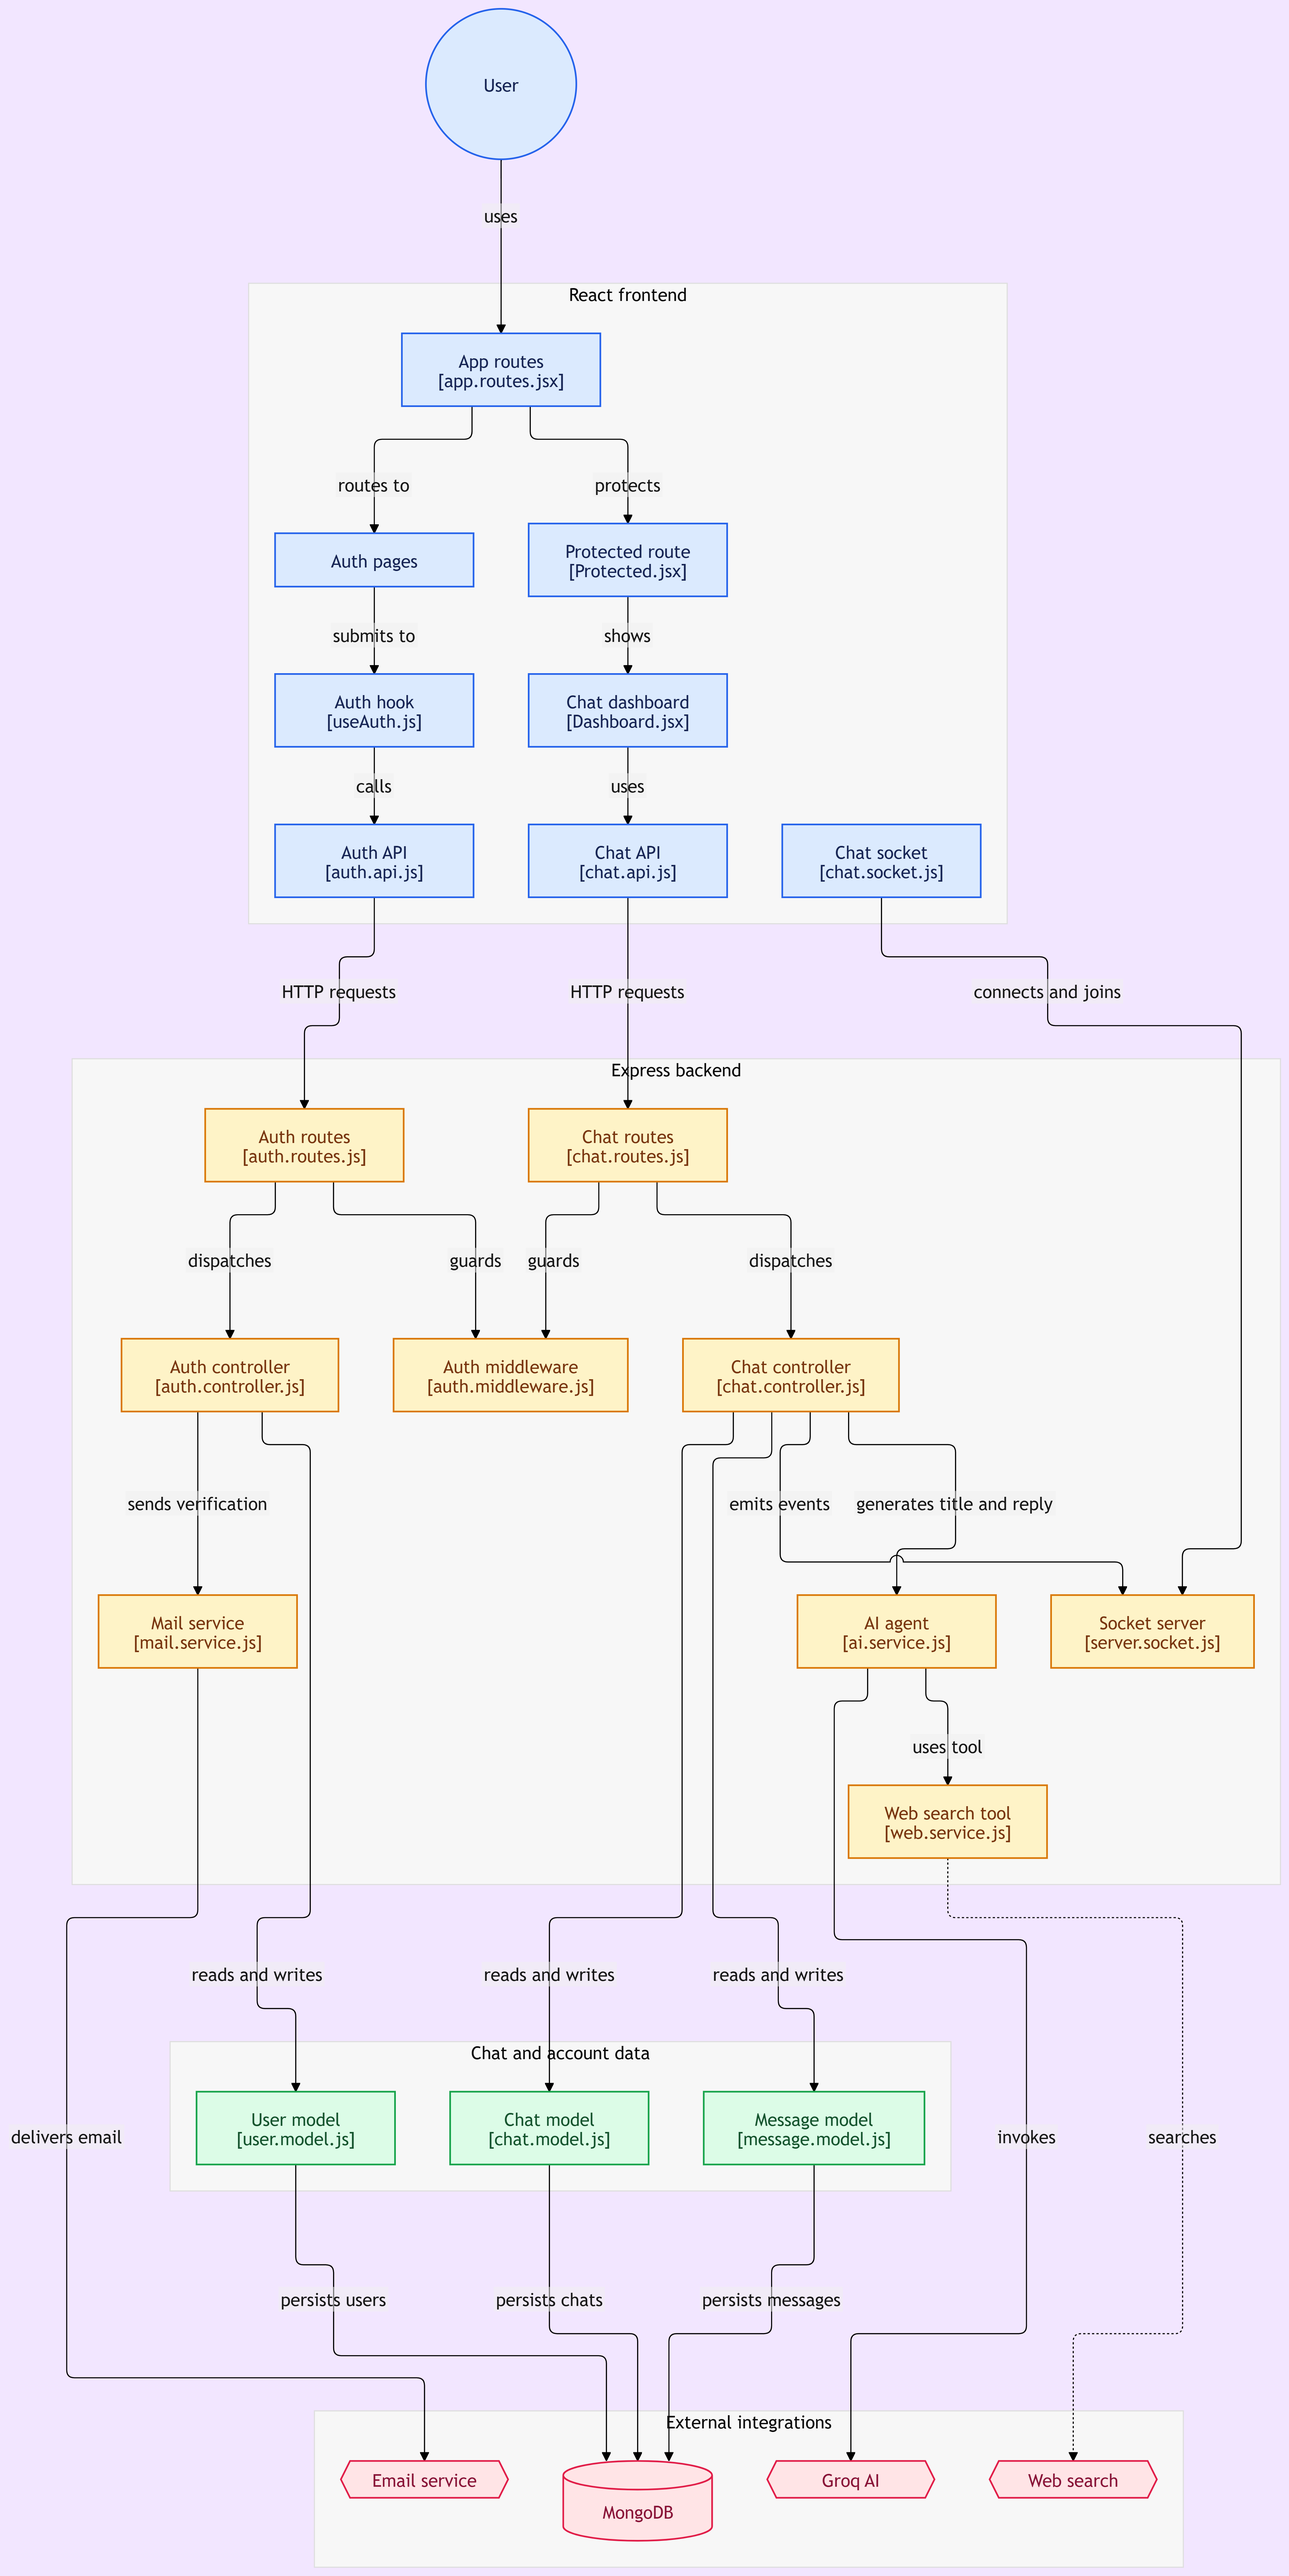
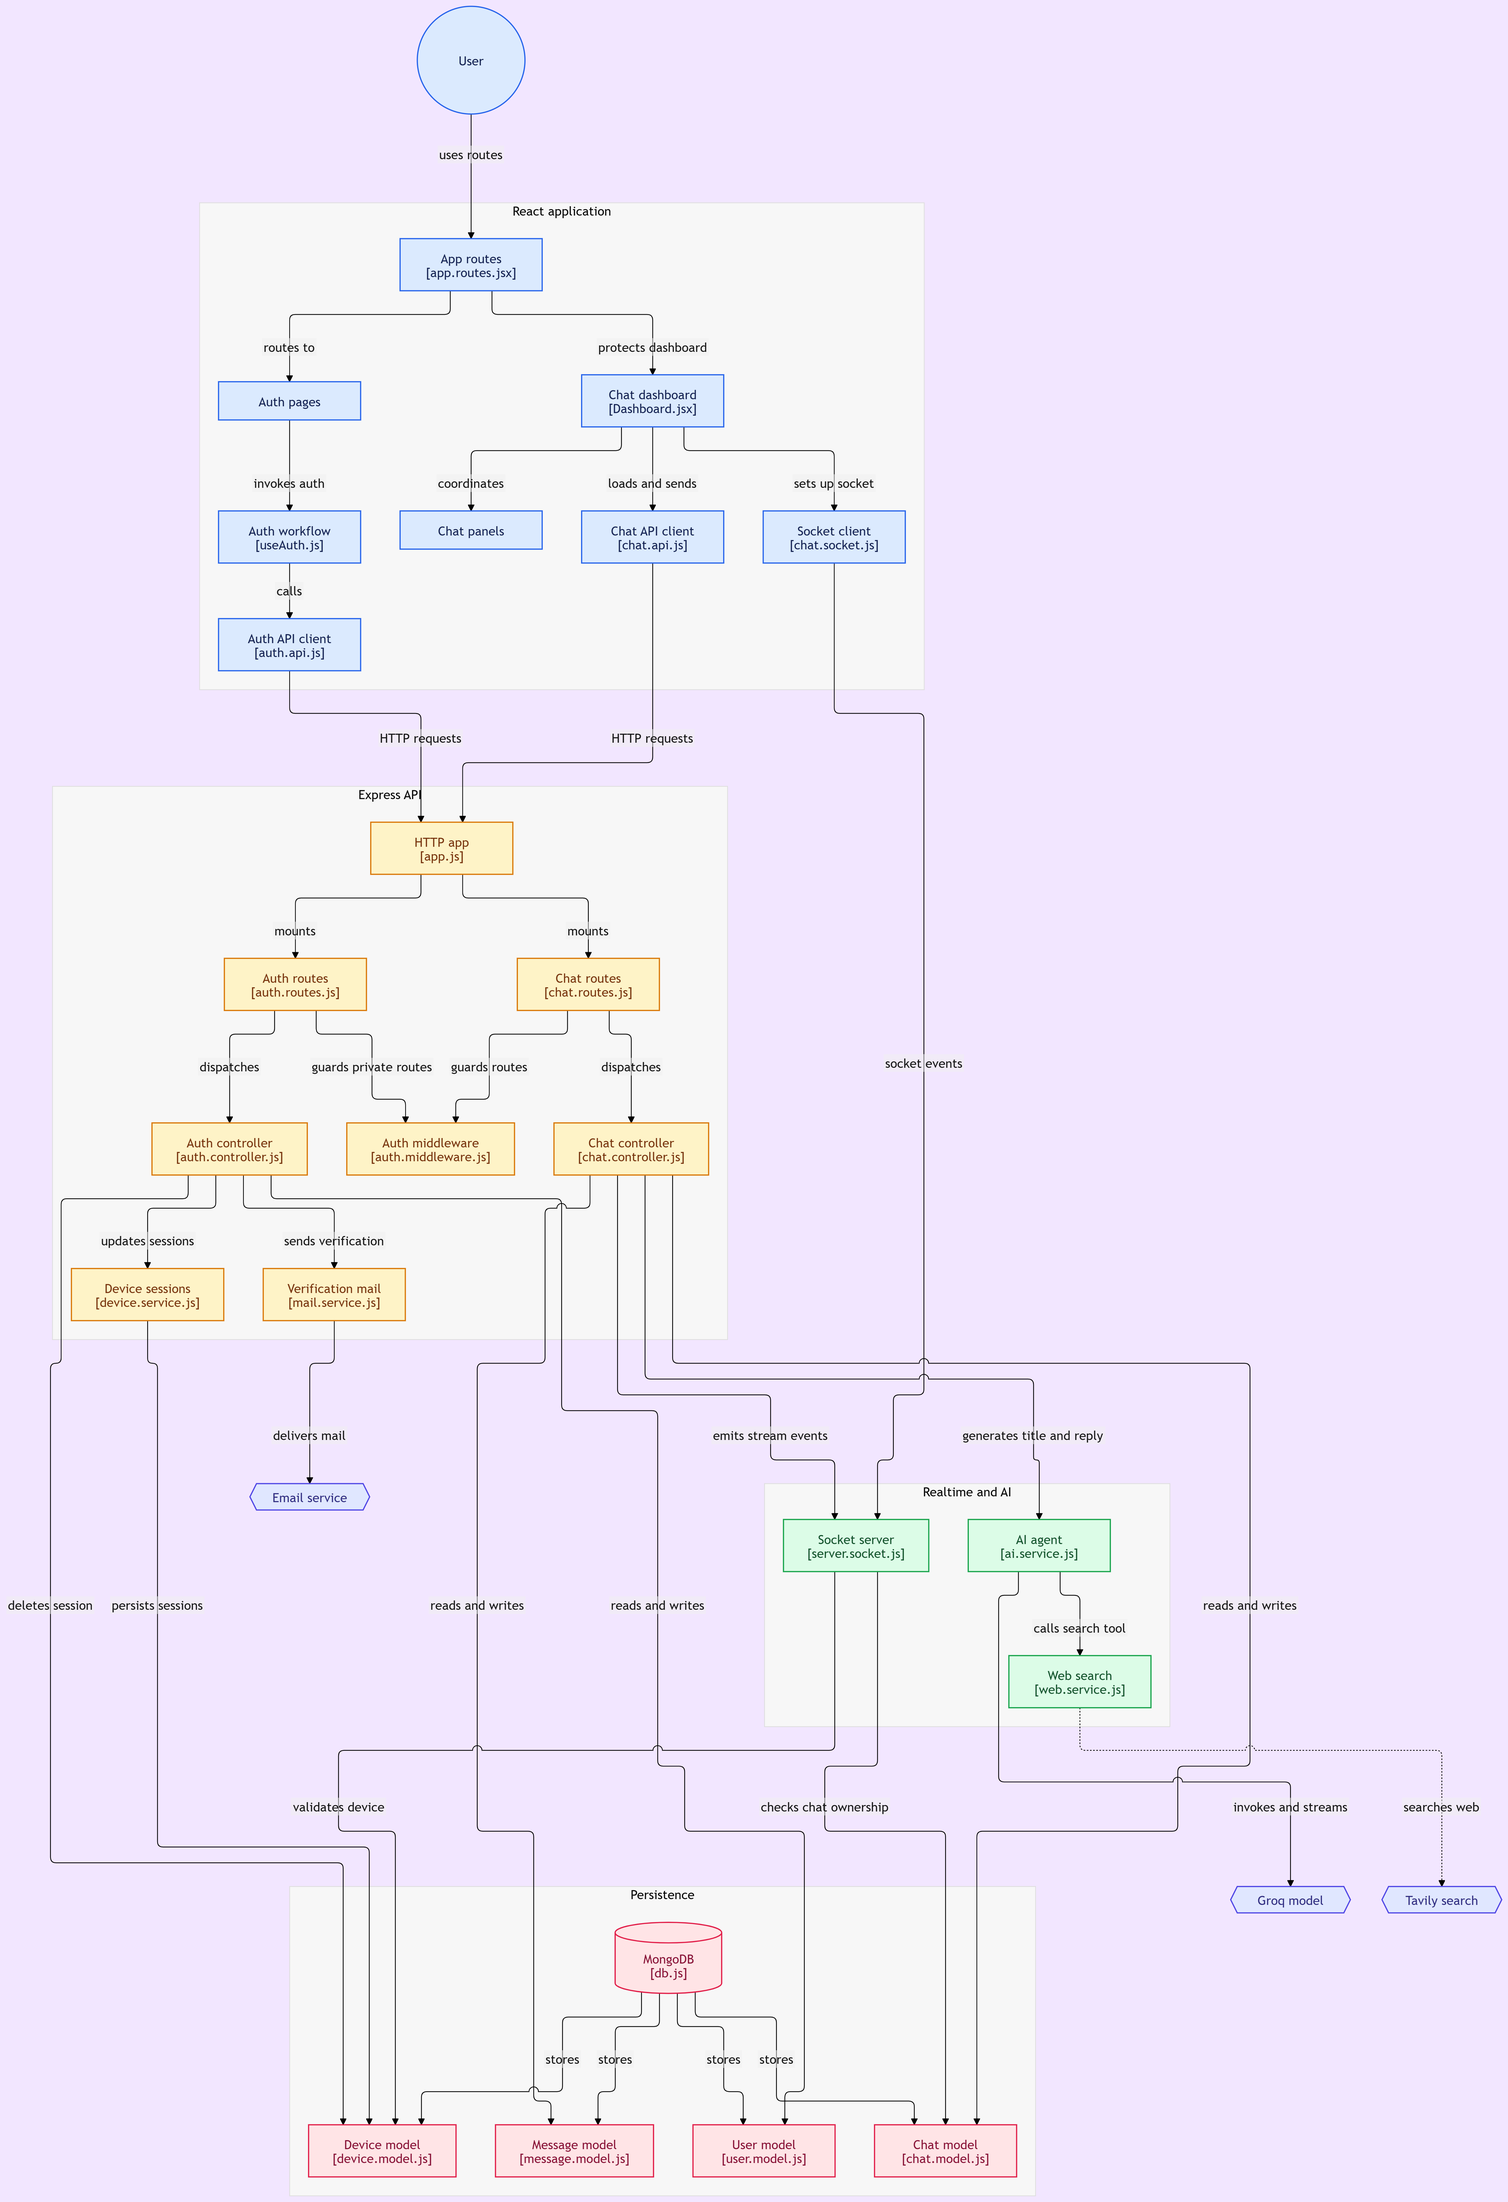
feat: update diagram to reflect recent architecture changes and document also

diff --git a/README.md b/README.md
@@ -1,24 +1,63 @@
 # SnapSeek
 
-SnapSeek is a chat app with a React frontend and an Express backend. It includes user authentication, protected chats, real-time messaging, MongoDB storage, and AI integrations.
+SnapSeek is an AI chat workspace. Users can create an account, verify their email, sign in from a PC or mobile device, create conversations, and receive streamed AI responses with Markdown rendering. Conversations and messages are stored in MongoDB.
 
-## Dashboard Features
+This repository contains two independently runnable applications:
 
-- Responsive chat dashboard with separate sidebar and conversation panel components.
-- Collapsible sidebar with vertical SnapSeek branding in its compact state.
-- Recent chat selection and new conversation controls.
-- Account menu with workspace details and logout action.
-- Markdown and GitHub Flavored Markdown rendering for assistant messages.
+- `BACKEND` - Node.js, Express, MongoDB/Mongoose, JWT cookie authentication, Socket.IO, LangChain, and email delivery.
+- `FRONTEND` - React 19, Vite, Redux Toolkit, React Router, Tailwind CSS, Socket.IO Client, and React Toastify.
+
+## Current State
+
+Implemented today:
+
+- Registration with username, email, password validation, and email verification.
+- Login and logout using an HTTP-only JWT cookie.
+- Device-aware sessions with one PC session and one mobile session per user. A new login replaces the existing session of the same device type.
+- Protected routes and API endpoints.
+- Chat creation, chat listing, message history, and chat deletion endpoints.
+- Streaming assistant responses over Socket.IO.
+- Groq is the active chat and title-generation model through LangChain.
+- Tavily web search is available to the AI agent as a tool.
+- Assistant responses render Markdown and GitHub Flavored Markdown.
+- Responsive dashboard with a collapsible sidebar, recent chats, new-chat action, account menu, and logout.
+- Toast notifications for login and registration failures.
+- Health endpoint at `/health`.
+- Transactional verification email through Brevo's HTTPS API, avoiding outbound SMTP port restrictions on hosts such as Render.
+
+The project is functional but still in active development. It has no automated test suite yet.
+
+## Architecture
+
+```text
+SnapSeek/
+├── BACKEND/
+│   ├── config/          MongoDB connection
+│   ├── controller/      Authentication and chat request handlers
+│   ├── middleware/      Authentication and rate limiting
+│   ├── model/           User, device, chat, and message schemas
+│   ├── routes/          Auth and chat API routes
+│   ├── services/        AI, email, device, and web-search integrations
+│   ├── socket/          Socket.IO server and authenticated chat rooms
+│   └── server.js        HTTP server entry point
+└── FRONTEND/
+	└── src/
+		├── app/         Router, Redux store, and global styles
+		├── features/
+		│   ├── auth/    Auth state, API calls, pages, and route guard
+		│   └── chat/    Chat state, API calls, socket, pages, and UI
+		└── utils/       Axios client and device ID helper
+```
 
 ## Requirements
 
-- Node.js 18 or newer
-- MongoDB
-- API keys for the services you want to use
+- Node.js 20 or newer is recommended. Several current LangChain packages require Node 20.
+- MongoDB, local or hosted.
+- API credentials for the AI, web search, and email services.
 
-## Setup
+## Installation
 
-Install dependencies in both folders:
+Install each application separately:
 
 ```bash
 cd BACKEND
@@ -28,33 +67,39 @@ cd ../FRONTEND
 npm install
 ```
 
-Create `BACKEND/.env` and add the values needed by the backend:
+## Environment Variables
+
+Create `BACKEND/.env`:
 
 ```env
 PORT=3000
 MONGO_URI=your_mongodb_connection_string
 JWT_SECRET=your_jwt_secret
+
 FRONTEND_URL=http://localhost:5173
-CORS_ORIGIN=http://localhost:5173
+
+GROQ_API_KEY=your_groq_key
 GEMINI_API_KEY=your_gemini_key
 MISTRAL_API_KEY=your_mistral_key
-GROQ_API_KEY=your_groq_key
 TAVILY_API_KEY=your_tavily_key
-EMAIL_USER=your_email_address
-GOOGLE_APP_PASSWORD=your_google_app_password
+
+BREVO_API_KEY=your_brevo_api_key
+EMAIL_USER=your_verified_brevo_sender_email
 ```
 
-Create `FRONTEND/.env` for the frontend API endpoint:
+`GROQ_API_KEY` and `TAVILY_API_KEY` are required by the active AI and web-search services. Gemini and Mistral clients are also initialized by the current AI service and should be configured if those providers are used.
+
+Create `FRONTEND/.env`:
 
 ```env
 VITE_API_BASE_URL=http://localhost:3000
 ```
 
-Use the deployed frontend and backend URLs for `FRONTEND_URL`, `CORS_ORIGIN`, and `VITE_API_BASE_URL` in production. Do not commit `.env` files or API keys.
+Do not commit `.env` files, API keys, JWT secrets, or database credentials.
 
-## Run the App
+## Local Development
 
-Open two terminals.
+Run the backend and frontend in separate terminals:
 
 Backend:
 
@@ -70,24 +115,86 @@ cd FRONTEND
 npm run dev
 ```
 
-The frontend runs at `http://localhost:5173` and the backend runs at `http://localhost:3000`.
+Default local URLs:
 
-## Main Routes
+- Frontend: `http://localhost:5173`
+- Backend: `http://localhost:3000`
+- Health check: `http://localhost:3000/health`
 
-- `/login` - Login
-- `/register` - Create an account
-- `/` - Protected chat dashboard
-- `/logout` - Protected logout flow
+## HTTP API
 
-The main dashboard UI is organized under `FRONTEND/src/features/chat`:
+### Authentication
 
-- `components/Sidebar.jsx` - Chat navigation, collapse control, and account menu.
-- `components/ConversationPanel.jsx` - Active conversation, messages, and composer.
-- `pages/Dashboard.jsx` - Chat state, socket setup, and coordination between components.
+| Method | Path | Access | Purpose |
+| --- | --- | --- | --- |
+| `POST` | `/api/auth/register` | Public | Create an account and send a verification email |
+| `POST` | `/api/auth/login` | Public | Sign in and create a device session |
+| `GET` | `/api/auth/get-me` | Authenticated | Fetch the current user |
+| `POST` | `/api/auth/verify-email` | Public | Verify an email token and create a session |
+| `POST` | `/api/auth/logout` | Authenticated | Delete the device session and clear the cookie |
 
-Frontend checks:
+Authentication endpoints are rate limited to 10 requests per IP in 15 minutes.
+
+### Chats
+
+| Method | Path | Access | Purpose |
+| --- | --- | --- | --- |
+| `POST` | `/api/chats/` | Authenticated | List the current user's chats |
+| `POST` | `/api/chats/message` | Authenticated | Create a message and start AI generation |
+| `GET` | `/api/chats/:chatId/messeges` | Authenticated | Fetch messages for a chat |
+| `DELETE` | `/api/chats/:chatId/delete` | Authenticated | Delete a chat and its messages |
+
+The `messeges` spelling is part of the current route contract and should be corrected only together with its frontend API caller.
+
+Chat requests are limited to 100 requests per user in 15 minutes.
+
+## Authentication and Realtime Flow
+
+1. The frontend creates and stores a persistent device ID in `localStorage`.
+2. Login sends the device ID to the backend.
+3. The backend stores a device session and signs a JWT containing the user, device type, and device ID.
+4. The JWT is sent as an HTTP-only, secure, `SameSite=None` cookie.
+5. Protected REST routes validate both the JWT and the matching device record.
+6. Socket.IO reads the same cookie and only permits authenticated users to join their own chat rooms.
+7. A message request returns an acknowledgement, then AI tokens and completion events are emitted to the chat room.
+
+## Deployment
+
+The backend can run as a Render web service using:
+
+```bash
+npm start
+```
+
+The frontend can be deployed as a Vite static site, including Vercel. The frontend deployment must define:
+
+```env
+VITE_API_BASE_URL=https://your-backend.example.com
+```
+
+The backend must define `FRONTEND_URL` as the exact deployed frontend origin so CORS and Socket.IO credentials work. Because the JWT cookie is secure and cross-site, production must use HTTPS on both frontend and backend.
+
+The frontend `vercel.json` rewrites application paths to `index.html` so React Router routes can load directly.
+
+## Known Limitations
+
+- No automated tests are configured; `BACKEND` has a placeholder test script.
+- There is no resend-verification-email flow.
+- There is no forgot-password or password-reset flow.
+- There is no active-session management UI; replacing a same-type device session is currently the way to free that slot.
+- Chat deletion is available in the backend but is not currently wired to a dashboard control.
+- Socket `tool_call` events are emitted but the frontend does not yet show a web-search status indicator.
+- AI generation cannot currently be cancelled, retried, or regenerated from the UI.
+- The backend email handler should validate the Brevo HTTP status explicitly; the current service returns the response body and registration treats any non-null response as a successful send.
+- The repository contains some legacy commented-out code and spelling inconsistencies that should be cleaned up during future refactors.
+
+## Frontend Checks
+
+Run these from `FRONTEND`:
 
 ```bash
 npm run lint
 npm run build
 ```
+
+The production build is currently the primary executable validation because no automated test suite exists.
